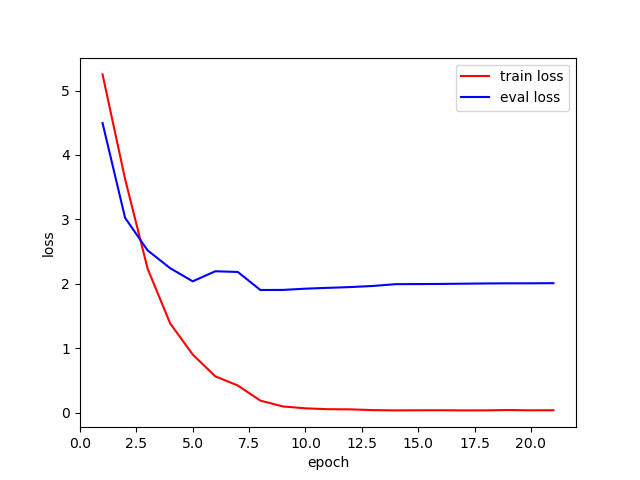
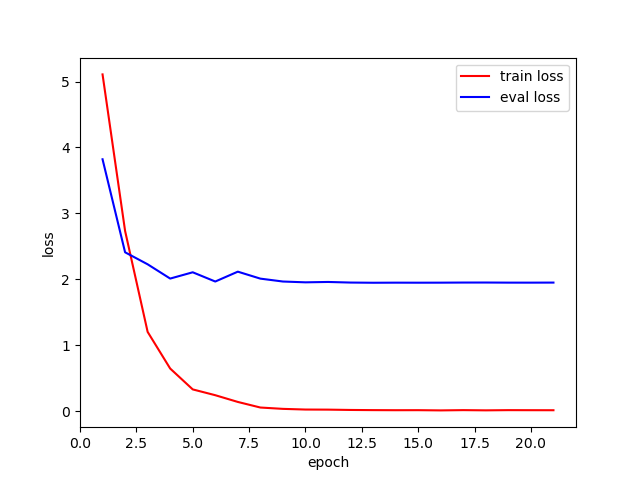
centercrop+normalize

diff --git a/hw2.py b/hw2.py
@@ -58,16 +58,17 @@ data_transforms = {
               # transforms.RandomRotation(degrees=(0,30)),
             # ]),
             # transforms.CenterCrop((480,480)),
+            transforms.CenterCrop((480,480)),
             transforms.Resize((224,224) ),
 
             ########################################
             transforms.ToTensor(),
-            # transforms.Normalize([0.485, 0.456, 0.406], [0.229, 0.224, 0.225])
+            transforms.Normalize([0.485, 0.456, 0.406], [0.229, 0.224, 0.225])
         ]),
         'val': transforms.Compose([
             transforms.Resize((224,224) ),
             transforms.ToTensor(),
-            # transforms.Normalize([0.485, 0.456, 0.406], [0.229, 0.224, 0.225])
+            transforms.Normalize([0.485, 0.456, 0.406], [0.229, 0.224, 0.225])
         ]),
     }
 
